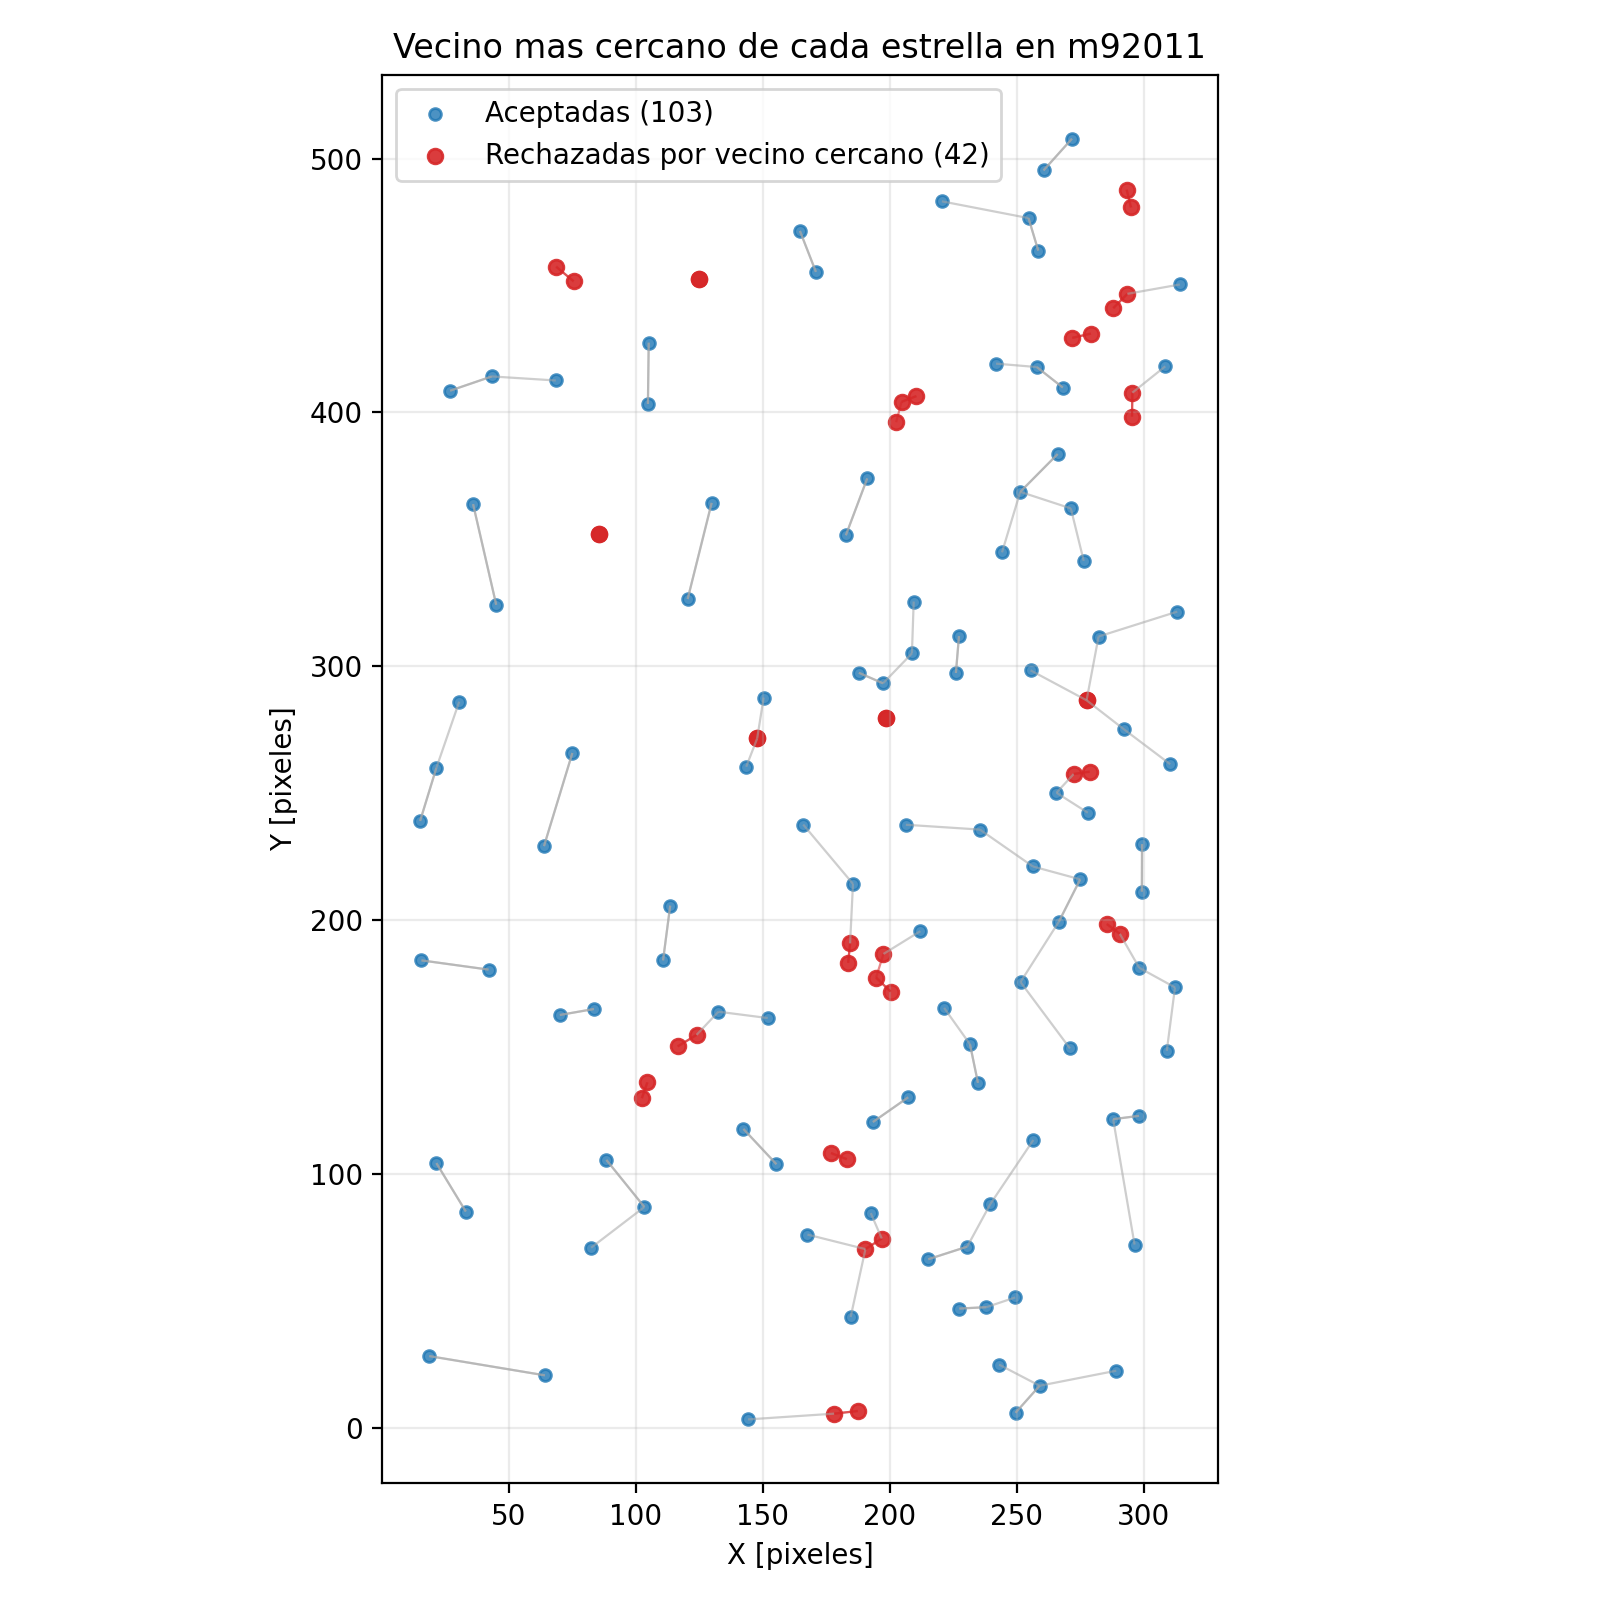
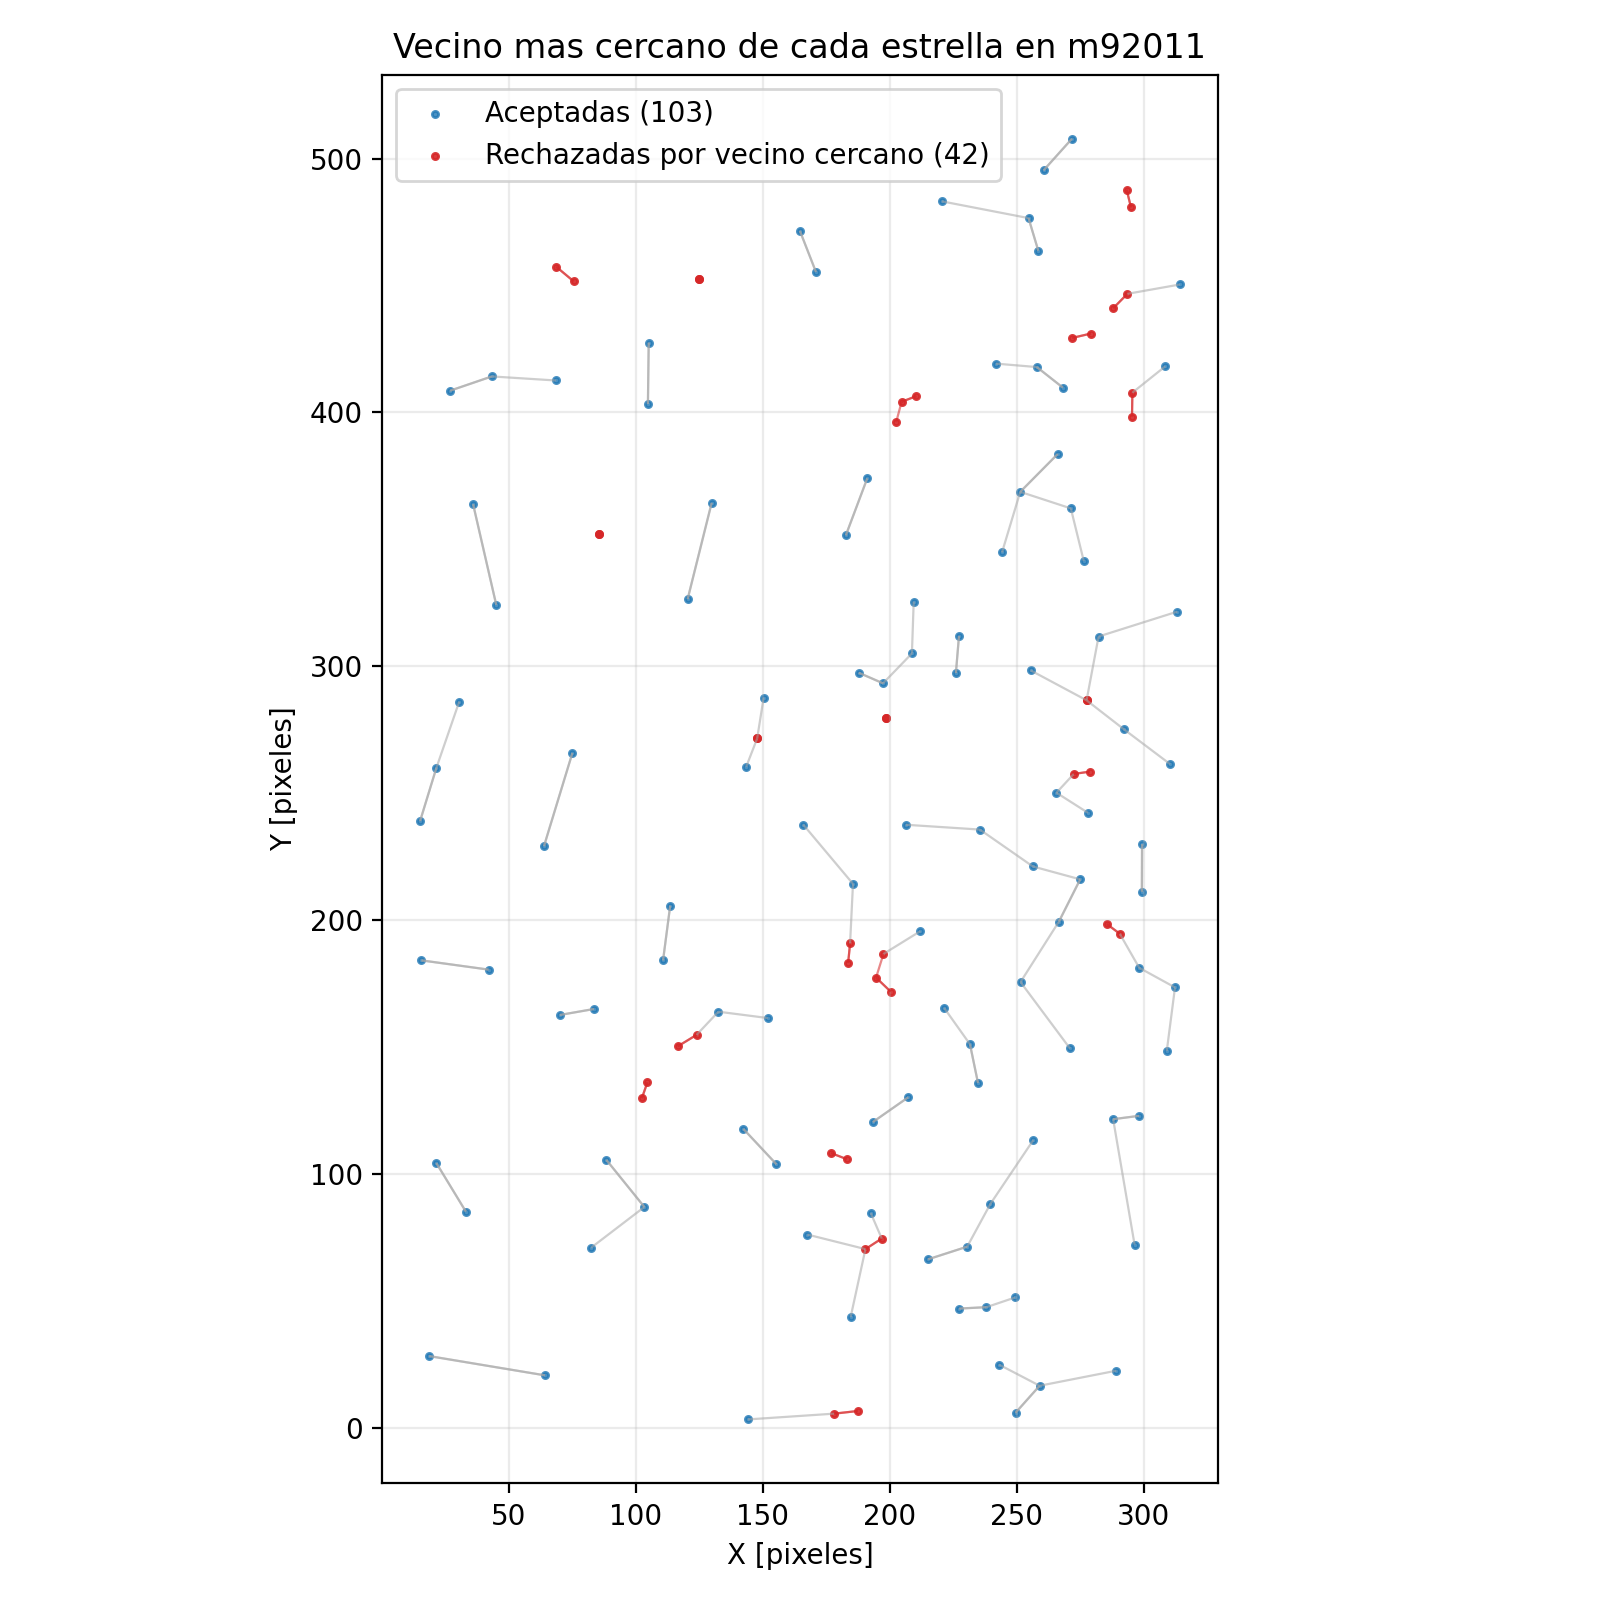
new graphics

diff --git a/filtrar_vecinos_m92011.py b/filtrar_vecinos_m92011.py
@@ -114,6 +114,63 @@ pares_cercanos = pd.DataFrame(pares_cercanos)
 pares_cercanos.to_csv("m92011_pares_vecino_cercano.csv", index=False)
 
 # =====================================================
+# GRAFICAR NÚMERO DE ESTRELLAS VS RADIO DE APERTURA
+# Respecto a la distancia de cada estrella a su vecino más cercano.
+# =====================================================
+radios_apertura = np.linspace(
+    0,
+    df["dist_vecino_mas_cercano"].max(),
+    300
+)
+numero_estrellas = np.array([
+    (df["dist_vecino_mas_cercano"] <= radio).sum()
+    for radio in radios_apertura
+])
+estrellas_en_limite = (df["dist_vecino_mas_cercano"] <= limite).sum()
+
+tabla_radio_vecino = pd.DataFrame({
+    "radio_apertura_pix": radios_apertura,
+    "n_estrellas_con_vecino_dentro": numero_estrellas
+})
+tabla_radio_vecino.to_csv(
+    "m92011_numero_estrellas_vs_radio_vecino_cercano.csv",
+    index=False
+)
+
+plt.figure(figsize=(8, 5))
+ax = plt.gca()
+
+ax.plot(
+    radios_apertura,
+    numero_estrellas,
+    color="tab:blue",
+    linewidth=2
+)
+ax.axvline(
+    limite,
+    color="tab:red",
+    linestyle="--",
+    linewidth=1.5,
+    label=f"Radio usado = {limite:.3f} pix"
+)
+ax.scatter(
+    [limite],
+    [estrellas_en_limite],
+    color="tab:red",
+    zorder=3,
+    label=f"{estrellas_en_limite} estrellas"
+)
+
+ax.set_xlabel("Radio de apertura [pixeles]")
+ax.set_ylabel("Número de estrellas")
+ax.set_title("Estrellas con vecino más cercano dentro del radio de apertura")
+ax.grid(True, alpha=0.25)
+ax.legend()
+plt.tight_layout()
+plt.savefig("m92011_numero_estrellas_vs_radio_vecino_cercano.png", dpi=200)
+plt.close()
+
+# =====================================================
 # GRAFICAR VECINO MÁS CERCANO DE CADA ESTRELLA
 # =====================================================
 indices_vecinos = df["indice_vecino_mas_cercano"].to_numpy(dtype=int) - 1
@@ -221,5 +278,7 @@ print("m92011_aceptadas_aisladas.coo")
 print("m92011_rechazadas_vecino_cercano.coo")
 print("m92011_tabla_vecinos_cercanos.csv")
 print("m92011_pares_vecino_cercano.csv")
+print("m92011_numero_estrellas_vs_radio_vecino_cercano.csv")
+print("m92011_numero_estrellas_vs_radio_vecino_cercano.png")
 print("m92011_vecinos_mas_cercanos.png")
 print("m92011_rechazadas_vecinos_detalle.png")
